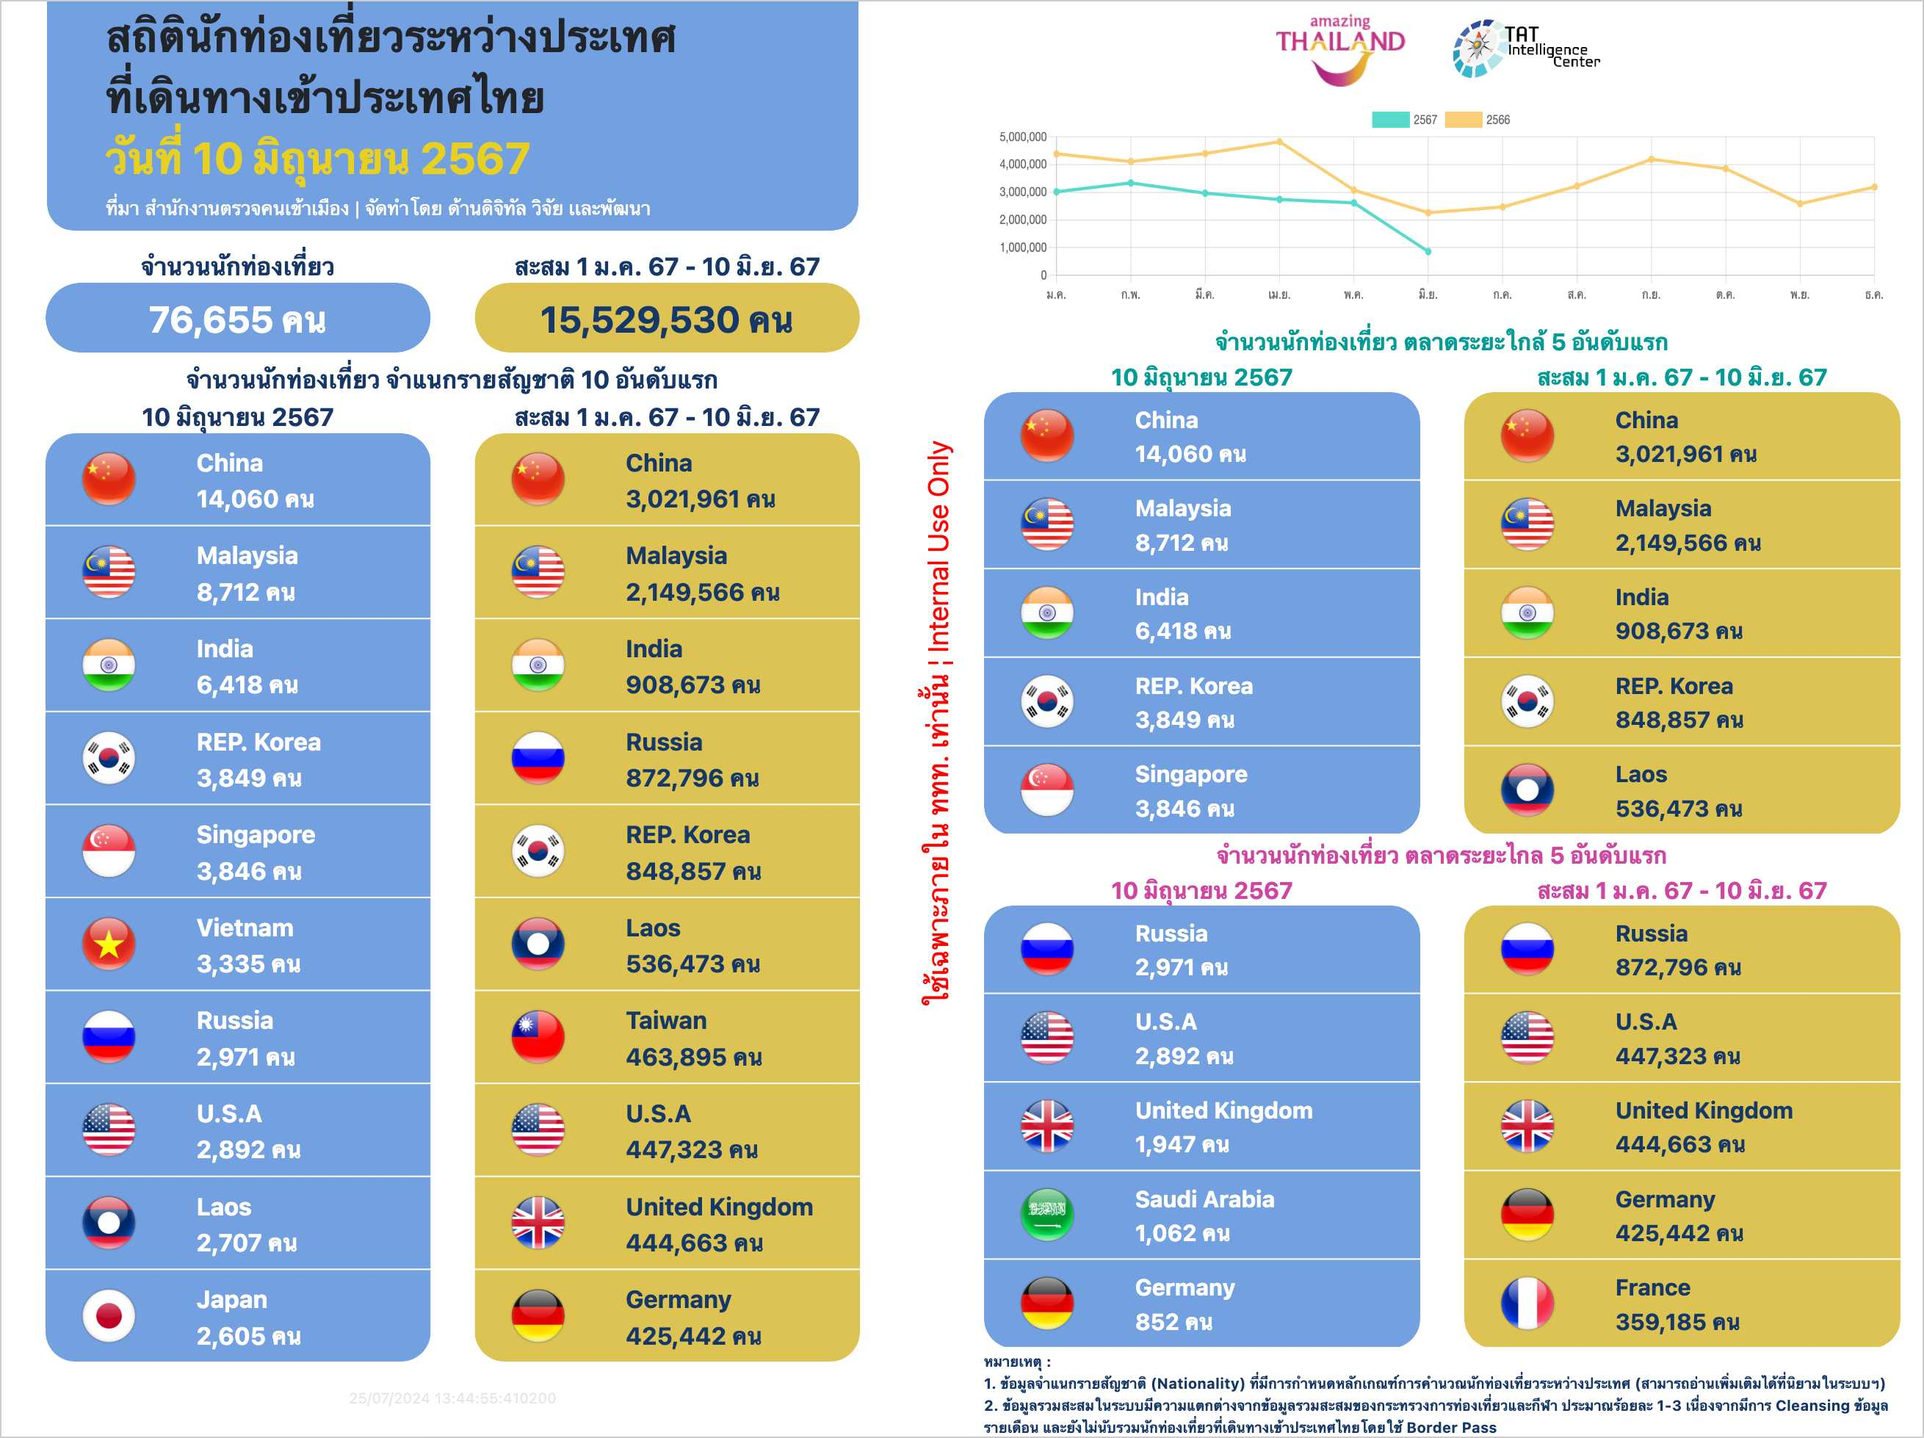
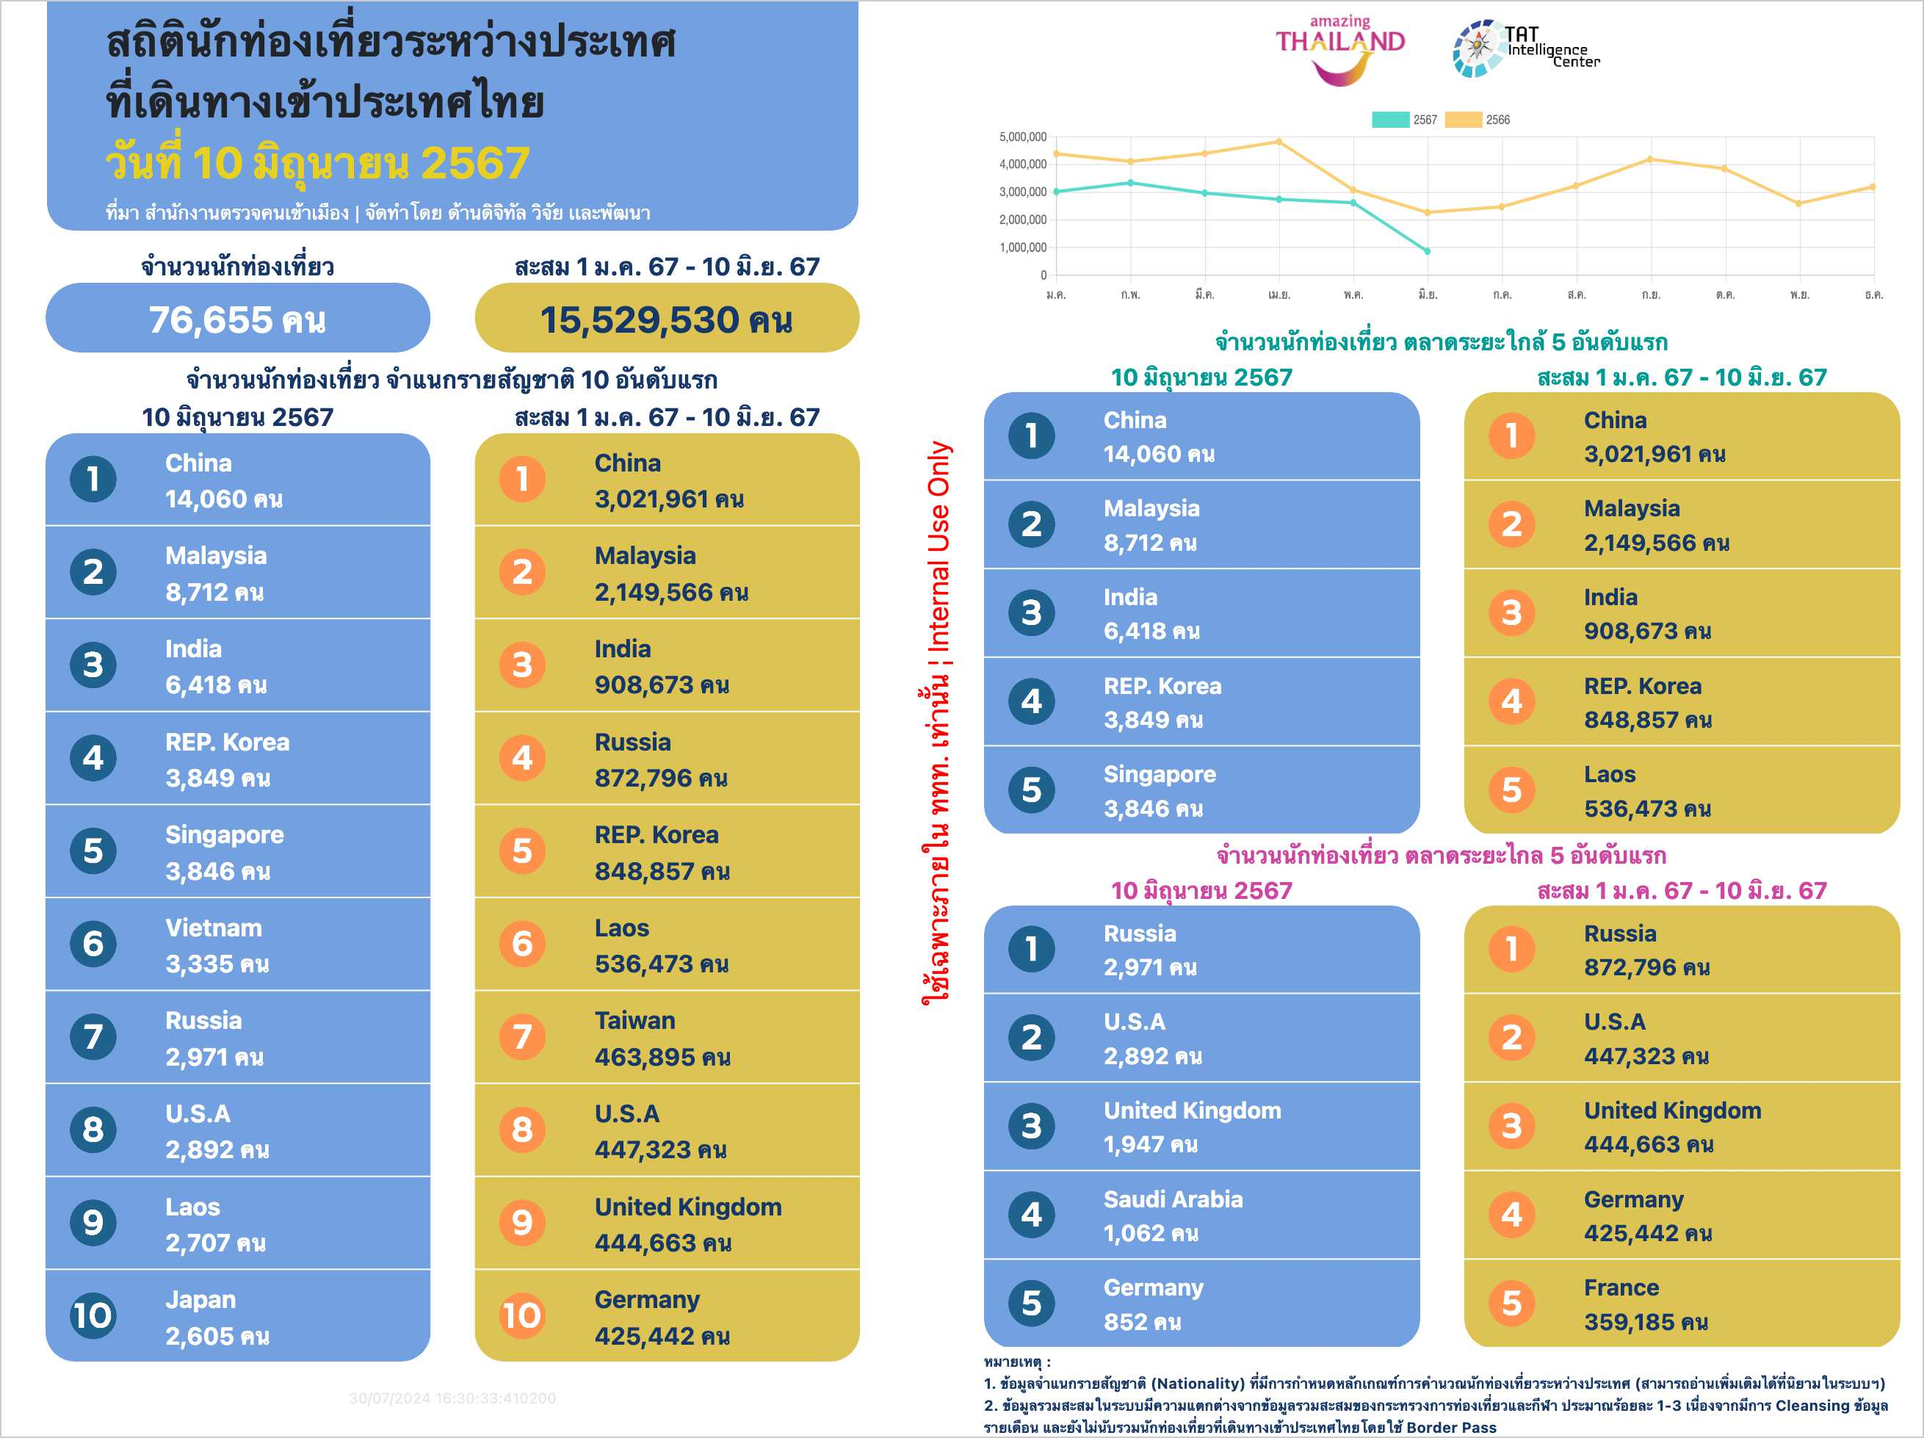
restore dashboard

diff --git a/modules/Main/Views/export/dashboard.php b/modules/Main/Views/export/dashboard.php
@@ -168,7 +168,7 @@ foreach ($SumNatDateData_past as $v) {
 }
 
 $i = 1;
-if (!empty($SumMarketDate_past['Short'])) {
+if(!empty($SumMarketDate_past['Short'])){
 	foreach ($SumMarketDate_past['Short'] as $v) {
 
 		if ($v['NUM'] == 0) {
@@ -180,7 +180,7 @@ if (!empty($SumMarketDate_past['Short'])) {
 }
 
 $i = 1;
-if (!empty($SumMarketDate_past['Long'])) {
+if(!empty($SumMarketDate_past['Long'])){
 	foreach ($SumMarketDate_past['Long'] as $v) {
 
 		if ($v['NUM'] == 0) {
@@ -191,6 +191,11 @@ if (!empty($SumMarketDate_past['Long'])) {
 	}
 }
 
+
+// echo '<pre>';
+// print_r($SumMarketDate_past);
+// print_r($numberMarketDay);
+// print_r($numberSumNatDay);
 ?>
 
 <body>
@@ -323,7 +328,7 @@ if (!empty($SumMarketDate_past['Long'])) {
 												foreach ($SumNatDateData as $v) {
 													$c++;
 													$flag = base_url('public/img/logotat.png');
-													$number_icon = base_url('public/img/Number_icon/number_' . $i . '.png');
+
 													if (!file_exists(base_url('public/img/flag/' . $v['COUNTRY_ID'] . '.png'))) {
 														$flag = base_url('public/img/flag/' . $v['COUNTRY_ID'] . '.png');
 													}
@@ -343,10 +348,10 @@ if (!empty($SumMarketDate_past['Long'])) {
 														<div id="" style="padding-left: 10px; padding-right: 10px; ">
 															<table style="width: 100%;">
 																<tr style="">
-																	<td style="width: 15%; border-bottom:  <?php echo $c == 10 ? '' : '1px solid white' ?>;">
-																		<img class="img-profile rounded-circle" src="<?php echo $number_icon ?>" style="height: 24px; ">
+																	<td style="width: 10%; border-bottom:  <?php echo $c == 10 ? '' : '1px solid white' ?>;">
+																		<img class="img-profile rounded-circle" src="<?php echo $flag ?>" style="height: 34px; ">
 																	</td>
-																	<td style="text-align: left; padding: 6.4px 16.5px;color: white; font-size: 16.5px;font-weight: bold; width: 85%; border-bottom:  <?php echo $c == 10 ? '' : '1px solid #FFFFFF' ?>;">
+																	<td style="text-align: left; padding: 6.4px 16.5px;color: white; font-size: 16.5px;font-weight: bold; width: 90%; border-bottom:  <?php echo $c == 10 ? '' : '1px solid #FFFFFF' ?>;">
 																		<?php echo $v['COUNTRY_NAME_EN'] ?>
 																		<br>
 																		<?php echo number_format($v['NUM']); ?> คน
@@ -385,7 +390,7 @@ if (!empty($SumMarketDate_past['Long'])) {
 												foreach ($SumNatMonthData as $v) {
 													$c++;
 													$flag = base_url('public/img/logotat.png');
-													$number_icon2 = base_url('public/img/Number_icon/number2_' . $c . '.png');
+
 													if (!file_exists(base_url('public/img/flag/' . $v['COUNTRY_ID'] . '.png'))) {
 														$flag = base_url('public/img/flag/' . $v['COUNTRY_ID'] . '.png');
 													}
@@ -394,10 +399,10 @@ if (!empty($SumMarketDate_past['Long'])) {
 														<div id="" style="padding-left: 10px; padding-right: 10px; ">
 															<table style="width: 100%;">
 																<tr style="">
-																	<td style="width: 15%; border-bottom:  <?php echo $c == 10 ? '' : '1px solid white' ?>;">
-																		<img class="img-profile rounded-circle" src="<?php echo $number_icon2 ?>" style="height: 24px; ">
+																	<td style="width: 10%; border-bottom:  <?php echo $c == 10 ? '' : '1px solid white' ?>;">
+																		<img class="img-profile rounded-circle" src="<?php echo $flag ?>" style="height: 34px; ">
 																	</td>
-																	<td class="colorText" style="text-align: left; padding: 6.4px 15px; font-size: 16.5px;font-weight: bold; width: 85%; border-bottom:  <?php echo $c == 10 ? '' : '1px solid #FFFFFF' ?>;">
+																	<td class="colorText" style="text-align: left; padding: 6.4px 15px; font-size: 16.5px;font-weight: bold; width: 90%; border-bottom:  <?php echo $c == 10 ? '' : '1px solid #FFFFFF' ?>;">
 																		<?php echo $v['COUNTRY_NAME_EN'] ?>
 																		<br>
 																		<?php echo number_format($v['NUM']); ?> คน
@@ -450,46 +455,44 @@ if (!empty($SumMarketDate_past['Long'])) {
 					<div id="resultsTableMarket1" style=" flex-direction: row; padding: 0px 5px;">
 						<?php $c = 0;
 						$i = 1;
-						if (!empty($SumMarketDate['Short'])) {
-							foreach ($SumMarketDate['Short'] as $v) {
-								$c++;
-								$number_icon2_1 = base_url('public/img/Number_icon/number_' . $c . '.png');
-								$flag = base_url('public/img/logotat.png');
+						if(!empty($SumMarketDate['Short'])){
+						foreach ($SumMarketDate['Short'] as $v) {
+							$c++;
+							$flag = base_url('public/img/logotat.png');
 
-								if (!file_exists(base_url('public/img/flag/' . $v['COUNTRY_ID'] . '.png'))) {
-									$flag = base_url('public/img/flag/' . $v['COUNTRY_ID'] . '.png');
-								}
-
-								$icon = '';
-								if (!empty($numberMarketDay['Short'][$v['COUNTRY_ID']])) {
-									if ($i == $numberMarketDay['Short'][$v['COUNTRY_ID']]) {
-										$icon = '';
-									} else if ($i < $numberMarketDay['Short'][$v['COUNTRY_ID']]) {
-										$icon = '<img src="' . base_url('public/img/arrowup1.png') . '" alt="">';
-									} else if ($i > $numberMarketDay['Short'][$v['COUNTRY_ID']]) {
-										$icon = '<img src="' . base_url('public/img/arrowdown1.png') . '" alt="">';
-									}
-								}
-								$i++;
-						?>
-								<div style="border: 0; ">
-									<table style="width: 100%;">
-										<tr>
-											<td style="width: 15%; border-bottom:  <?php echo $c == 10 ? '' : '1px solid white' ?>;">
-												<img class="img-profile rounded-circle" src="<?php echo $number_icon2_1 ?>" style="height: 24px; ">
-											</td>
-											<td style="text-align: left; padding: 4.8px 15px;color: white; font-size: 16.5px;font-weight: bold; width: 85%; border-bottom:  <?php echo $c == 10 ? '' : '1px solid white' ?>;">
-												<?php echo $v['COUNTRY_NAME_EN'] ?>
-												<br>
-												<?php echo number_format($v['NUM']); ?> คน
-											</td>
-										</tr>
-									</table>
-
-								</div>
-						<?php if ($c == 5) break;
+							if (!file_exists(base_url('public/img/flag/' . $v['COUNTRY_ID'] . '.png'))) {
+								$flag = base_url('public/img/flag/' . $v['COUNTRY_ID'] . '.png');
 							}
-						} ?>
+
+							$icon = '';
+							if (!empty($numberMarketDay['Short'][$v['COUNTRY_ID']])) {
+								if ($i == $numberMarketDay['Short'][$v['COUNTRY_ID']]) {
+									$icon = '';
+								} else if ($i < $numberMarketDay['Short'][$v['COUNTRY_ID']]) {
+									$icon = '<img src="' . base_url('public/img/arrowup1.png') . '" alt="">';
+								} else if ($i > $numberMarketDay['Short'][$v['COUNTRY_ID']]) {
+									$icon = '<img src="' . base_url('public/img/arrowdown1.png') . '" alt="">';
+								}
+							}
+							$i++;
+						?>
+							<div style="border: 0; ">
+								<table style="width: 100%;">
+									<tr>
+										<td style="width: 10%; border-bottom:  <?php echo $c == 10 ? '' : '1px solid white' ?>;">
+											<img class="img-profile rounded-circle" src="<?php echo $flag ?>" style="height: 34px; ">
+										</td>
+										<td style="text-align: left; padding: 4.8px 15px;color: white; font-size: 16.5px;font-weight: bold; width: 90%; border-bottom:  <?php echo $c == 10 ? '' : '1px solid white' ?>;">
+											<?php echo $v['COUNTRY_NAME_EN'] ?>
+											<br>
+											<?php echo number_format($v['NUM']); ?> คน
+										</td>
+									</tr>
+								</table>
+
+							</div>
+						<?php if ($c == 5) break;
+						} }?>
 					</div>
 				</div>
 				<div class="col6">
@@ -498,37 +501,35 @@ if (!empty($SumMarketDate_past['Long'])) {
 					<div id="resultsTableMarket2" style=" flex-direction: row; padding: 0px 5px;">
 
 						<?php $c = 0;
-						if (!empty($SumMarketMonth['Short'])) {
-							foreach ($SumMarketMonth['Short'] as $v) {
-								$c++;
-								$number_icon2_2 = base_url('public/img/Number_icon/number2_' . $c . '.png');
-								$flag = base_url('public/img/logotat.png');
+						if(!empty($SumMarketMonth['Short'])){
+						foreach ($SumMarketMonth['Short'] as $v) {
+							$c++;
+							$flag = base_url('public/img/logotat.png');
 
-								if (!file_exists(base_url('public/img/flag/' . $v['COUNTRY_ID'] . '.png'))) {
-									$flag = base_url('public/img/flag/' . $v['COUNTRY_ID'] . '.png');
-								}
+							if (!file_exists(base_url('public/img/flag/' . $v['COUNTRY_ID'] . '.png'))) {
+								$flag = base_url('public/img/flag/' . $v['COUNTRY_ID'] . '.png');
+							}
 						?>
-								<div style="border: 0; ">
-									<table style="width: 100%;">
-										<tr>
-											<td style="width: 15%; border-bottom:  <?php echo $c == 10 ? '' : '1px solid white' ?>;">
-												<img class="img-profile rounded-circle" src="<?php echo $number_icon2_2 ?>" style="height: 24px; ">
-											</td>
-											<td style="text-align: left; padding: 4.8px 15px;color: #193666; font-size: 16.5px;font-weight: bold; width: 85%; border-bottom:  <?php echo $c == 10 ? '' : '1px solid white' ?>;">
-												<?php echo $v['COUNTRY_NAME_EN'] ?>
-												<br>
-												<?php echo number_format($v['NUM']); ?> คน
-											</td>
-											<!-- <td style="font-size: 14px; color: #193666; font-weight: bold; width: 10%; text-align: center;border-bottom:<?php echo $c == 10 ? '' : '1px solid white' ?>;">
+							<div style="border: 0; ">
+								<table style="width: 100%;">
+									<tr>
+										<td style="width: 10%; border-bottom:  <?php echo $c == 10 ? '' : '1px solid white' ?>;">
+											<img class="img-profile rounded-circle" src="<?php echo $flag ?>" style="height: 34px; ">
+										</td>
+										<td style="text-align: left; padding: 4.8px 15px;color: #193666; font-size: 16.5px;font-weight: bold; width: 90%; border-bottom:  <?php echo $c == 10 ? '' : '1px solid white' ?>;">
+											<?php echo $v['COUNTRY_NAME_EN'] ?>
+											<br>
+											<?php echo number_format($v['NUM']); ?> คน
+										</td>
+										<!-- <td style="font-size: 14px; color: #193666; font-weight: bold; width: 10%; text-align: center;border-bottom:<?php echo $c == 10 ? '' : '1px solid white' ?>;">
 											<img src="<?php echo base_url('public/img/arrowup1.png') ?>" alt="">
 										</td> -->
-										</tr>
-									</table>
+									</tr>
+								</table>
 
-								</div>
+							</div>
 						<?php if ($c == 5) break;
-							}
-						} ?>
+						} }?>
 					</div>
 				</div>
 			</div>
@@ -551,47 +552,45 @@ if (!empty($SumMarketDate_past['Long'])) {
 
 						<?php $c = 0;
 						$i = 1;
-						if (!empty($SumMarketDate['Long'])) {
-							foreach ($SumMarketDate['Long'] as $v) {
-								$c++;
-								$number_icon3_1 = base_url('public/img/Number_icon/number_' . $c . '.png');
-								$flag = base_url('public/img/logotat.png');
+						if(!empty($SumMarketDate['Long'])){
+						foreach ($SumMarketDate['Long'] as $v) {
+							$c++;
+							$flag = base_url('public/img/logotat.png');
 
-								if (!file_exists(base_url('public/img/flag/' . $v['COUNTRY_ID'] . '.png'))) {
-									$flag = base_url('public/img/flag/' . $v['COUNTRY_ID'] . '.png');
+							if (!file_exists(base_url('public/img/flag/' . $v['COUNTRY_ID'] . '.png'))) {
+								$flag = base_url('public/img/flag/' . $v['COUNTRY_ID'] . '.png');
+							}
+							$icon = '';
+							if (!empty($numberMarketDay['Long'][$v['COUNTRY_ID']])) {
+								if ($i == $numberMarketDay['Long'][$v['COUNTRY_ID']]) {
+									$icon = '';
+								} else if ($i < $numberMarketDay['Long'][$v['COUNTRY_ID']]) {
+									$icon = '<img src="' . base_url('public/img/arrowup1.png') . '" alt="">';
+								} else if ($i > $numberMarketDay['Long'][$v['COUNTRY_ID']]) {
+									$icon = '<img src="' . base_url('public/img/arrowdown1.png') . '" alt="">';
 								}
-								$icon = '';
-								if (!empty($numberMarketDay['Long'][$v['COUNTRY_ID']])) {
-									if ($i == $numberMarketDay['Long'][$v['COUNTRY_ID']]) {
-										$icon = '';
-									} else if ($i < $numberMarketDay['Long'][$v['COUNTRY_ID']]) {
-										$icon = '<img src="' . base_url('public/img/arrowup1.png') . '" alt="">';
-									} else if ($i > $numberMarketDay['Long'][$v['COUNTRY_ID']]) {
-										$icon = '<img src="' . base_url('public/img/arrowdown1.png') . '" alt="">';
-									}
-								}
-								$i++;
+							}
+							$i++;
 						?>
-								<div style="border: 0; ">
-									<table style="width: 100%;">
-										<tr>
-											<td style="width: 15%; border-bottom:  <?php echo $c == 10 ? '' : '1px solid white' ?>;">
-												<img class="img-profile rounded-circle" src="<?php echo $number_icon3_1 ?>" style="height: 24px; ">
-											</td>
-											<td style="text-align: left; padding: 4.8px 15px;color: white; font-size: 16.5px;font-weight: bold; width: 85%; border-bottom:  <?php echo $c == 10 ? '' : '1px solid white' ?>;">
-												<?php echo $v['COUNTRY_NAME_EN'] ?>
-												<br>
-												<?php echo number_format($v['NUM']); ?> คน
-											</td>
-											<!-- <td style="font-size: 14px; color: #193666; font-weight: bold; width: 10%; text-align: center;border-bottom:<?php echo $c == 10 ? '' : '1px solid white' ?>;">
+							<div style="border: 0; ">
+								<table style="width: 100%;">
+									<tr>
+										<td style="width: 10%; border-bottom:  <?php echo $c == 10 ? '' : '1px solid white' ?>;">
+											<img class="img-profile rounded-circle" src="<?php echo $flag ?>" style="height: 34px; ">
+										</td>
+										<td style="text-align: left; padding: 4.8px 15px;color: white; font-size: 16.5px;font-weight: bold; width: 90%; border-bottom:  <?php echo $c == 10 ? '' : '1px solid white' ?>;">
+											<?php echo $v['COUNTRY_NAME_EN'] ?>
+											<br>
+											<?php echo number_format($v['NUM']); ?> คน
+										</td>
+										<!-- <td style="font-size: 14px; color: #193666; font-weight: bold; width: 10%; text-align: center;border-bottom:<?php echo $c == 10 ? '' : '1px solid white' ?>;">
 											<?php echo $icon ?>
 										</td> -->
-										</tr>
-									</table>
-								</div>
+									</tr>
+								</table>
+							</div>
 						<?php if ($c == 5) break;
-							}
-						} ?>
+						} }?>
 					</div>
 				</div>
 				<div class="col6">
@@ -601,39 +600,37 @@ if (!empty($SumMarketDate_past['Long'])) {
 					<div id="resultsTableMarket2" style=" flex-direction: row; padding: 0px 5px;">
 
 						<?php $c = 0;
-						if (!empty($SumMarketMonth['Long'])) {
-							foreach ($SumMarketMonth['Long'] as $v) {
-								$c++;
-								$number_icon3_2 = base_url('public/img/Number_icon/number2_' . $c . '.png');
-								$flag = base_url('public/img/logotat.png');
+						if(!empty($SumMarketMonth['Long'])){
+						foreach ($SumMarketMonth['Long'] as $v) {
+							$c++;
+							$flag = base_url('public/img/logotat.png');
 
-								if (!file_exists(base_url('public/img/flag/' . $v['COUNTRY_ID'] . '.png'))) {
-									$flag = base_url('public/img/flag/' . $v['COUNTRY_ID'] . '.png');
-								}
+							if (!file_exists(base_url('public/img/flag/' . $v['COUNTRY_ID'] . '.png'))) {
+								$flag = base_url('public/img/flag/' . $v['COUNTRY_ID'] . '.png');
+							}
 						?>
-								<div style="border: 0; ">
+							<div style="border: 0; ">
 
-									<div id="">
-										<table style="width: 100%;">
-											<tr>
-												<td style="width: 15%; border-bottom:  <?php echo $c == 10 ? '' : '1px solid white' ?>;">
-													<img class="img-profile rounded-circle" src="<?php echo $number_icon3_2 ?>" style="height: 24px; ">
-												</td>
-												<td style="text-align: left; padding: 4.8px 15px;color: #193666; font-size: 16.5px;font-weight: bold; width: 85%; border-bottom:  <?php echo $c == 10 ? '' : '1px solid white' ?>;">
-													<?php echo $v['COUNTRY_NAME_EN'] ?>
-													<br>
-													<?php echo number_format($v['NUM']); ?> คน
-												</td>
-												<!-- <td style="font-size: 14px; color: #193666; font-weight: bold; width: 10%; text-align: center;border-bottom:<?php echo $c == 10 ? '' : '1px solid white' ?>;">
+								<div id="">
+									<table style="width: 100%;">
+										<tr>
+											<td style="width: 10%; border-bottom:  <?php echo $c == 10 ? '' : '1px solid white' ?>;">
+												<img class="img-profile rounded-circle" src="<?php echo $flag ?>" style="height: 34px; ">
+											</td>
+											<td style="text-align: left; padding: 4.8px 15px;color: #193666; font-size: 16.5px;font-weight: bold; width: 90%; border-bottom:  <?php echo $c == 10 ? '' : '1px solid white' ?>;">
+												<?php echo $v['COUNTRY_NAME_EN'] ?>
+												<br>
+												<?php echo number_format($v['NUM']); ?> คน
+											</td>
+											<!-- <td style="font-size: 14px; color: #193666; font-weight: bold; width: 10%; text-align: center;border-bottom:<?php echo $c == 10 ? '' : '1px solid white' ?>;">
 												<img src="<?php echo base_url('public/img/arrowup1.png') ?>" alt="">
 											</td> -->
-											</tr>
-										</table>
-									</div>
+										</tr>
+									</table>
 								</div>
+							</div>
 						<?php if ($c == 5) break;
-							}
-						} ?>
+						} }?>
 					</div>
 				</div>
 			</div>
@@ -651,6 +648,6 @@ if (!empty($SumMarketDate_past['Long'])) {
 		ใช้เฉพาะภายใน ททท. เท่านั้น ¦ Internal Use Only
 	</div>
 	<div style="position: absolute;top: 97%; left: 5%;color: red; font-size: 20px;">
-		<p style="opacity: 0.3;font-size:10px;color: #a1afc2;"><?php echo date('d/m/Y H:i:s:') . $session->get('org_id');; ?></p>
+		<p style="opacity: 0.3;font-size:10px;color: #a1afc2;"><?php echo date('d/m/Y H:i:s:'). $session->get('org_id'); ; ?></p>
 	</div>
 </body>
